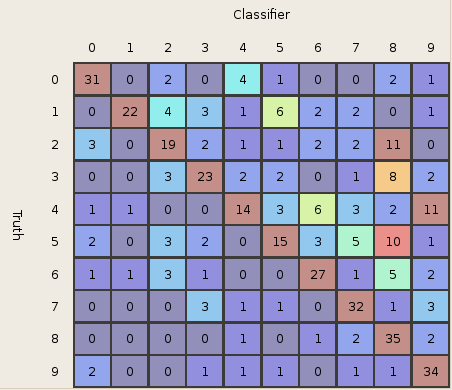
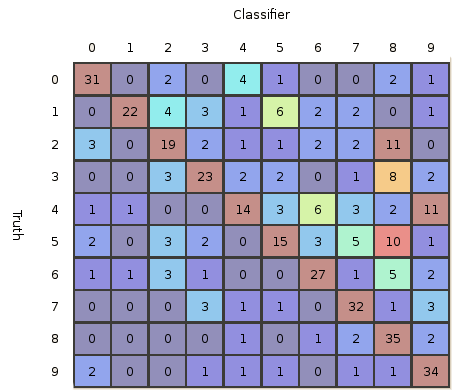
added data for 2 hidden node network to report

Changed region(s): [[0.0, 0.0, 1.0, 1.0]]

diff --git a/trunk/report/report.tex b/trunk/report/report.tex
@@ -65,6 +65,19 @@ Prior project work completed for CSI710 (Scientific Databases) was utilized to c
 
 \section{Results}\label{Results}
 
+Experiments were performed with 2, 3, and 4 hidden layers as indicated by the exam instructions. In adition, out of curiosity, a network with a 10 node hidden layer was also tested. Results for each case are summarized in the following sections.
+
+\section{Two Hidden Nodes}\label{hidden2}
+
+
+
+\begin{equation}\label{conf2sample}
+\begin{split}
+error_{S}(h) &\pm z_{N}\sqrt{\frac{error_{S}(h)(1-error_{S}(h))}{n}} \\
+0.72 &\pm 1.96\sqrt{\frac{(0.72)(1-0.72)}{410}} 
+\end{split}
+\end{equation}
+
 \begin{table}
 \caption{Missclassification Error for 2 Hidden Node Network}
 \begin{center}
@@ -82,6 +95,35 @@ Training      & 0.702 &  0.672 & 0.732  \\
 \label{table2}
 \end{center}
 \end{table}
+
+\begin{figure}
+\centering
+\includegraphics[width=0.85\textwidth]{data/final/2_hidden_node_error.png}
+\caption{Missclassification Error for 2 Hidden Node Network by Iteration}
+\label{error2}
+\end{figure}
+
+\begin{figure}
+\centering
+\includegraphics[width=0.85\textwidth]{data/final/2_hidden_node_0weight.png}
+\caption{Output Node 0 Input Weights for 2 Hidden Node Network by Iteration}
+\label{weight2}
+\end{figure}
+
+\begin{figure}
+\centering
+\includegraphics[width=0.85\textwidth]{data/final/2_test_confusion.png}
+\caption{Confusion Matrix for Testing Data Set for 2 Hidden Node Network}
+\label{testconfusion2}
+\end{figure}
+
+\begin{figure}
+\centering
+\includegraphics[width=0.85\textwidth]{data/final/2_train_confusion.png}
+\caption{Confusion Matrix for Training Data Set for 2 Hidden Node Network}
+\label{trainconfusion2}
+\end{figure}
+
 
 \begin{table}
 \caption{Missclassification Error for 3 Hidden Node Network}
